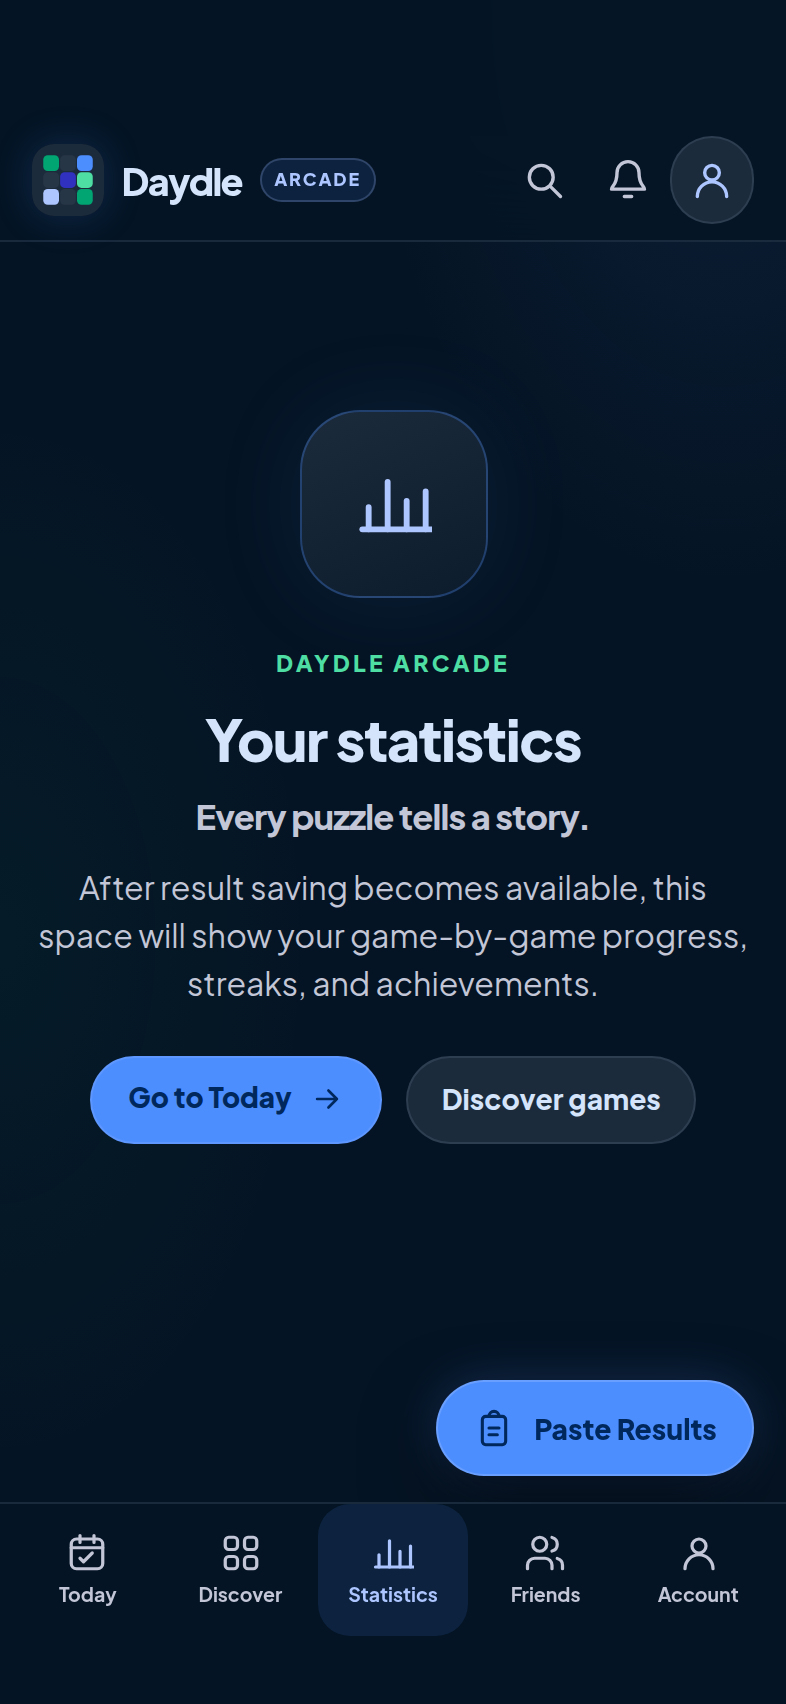
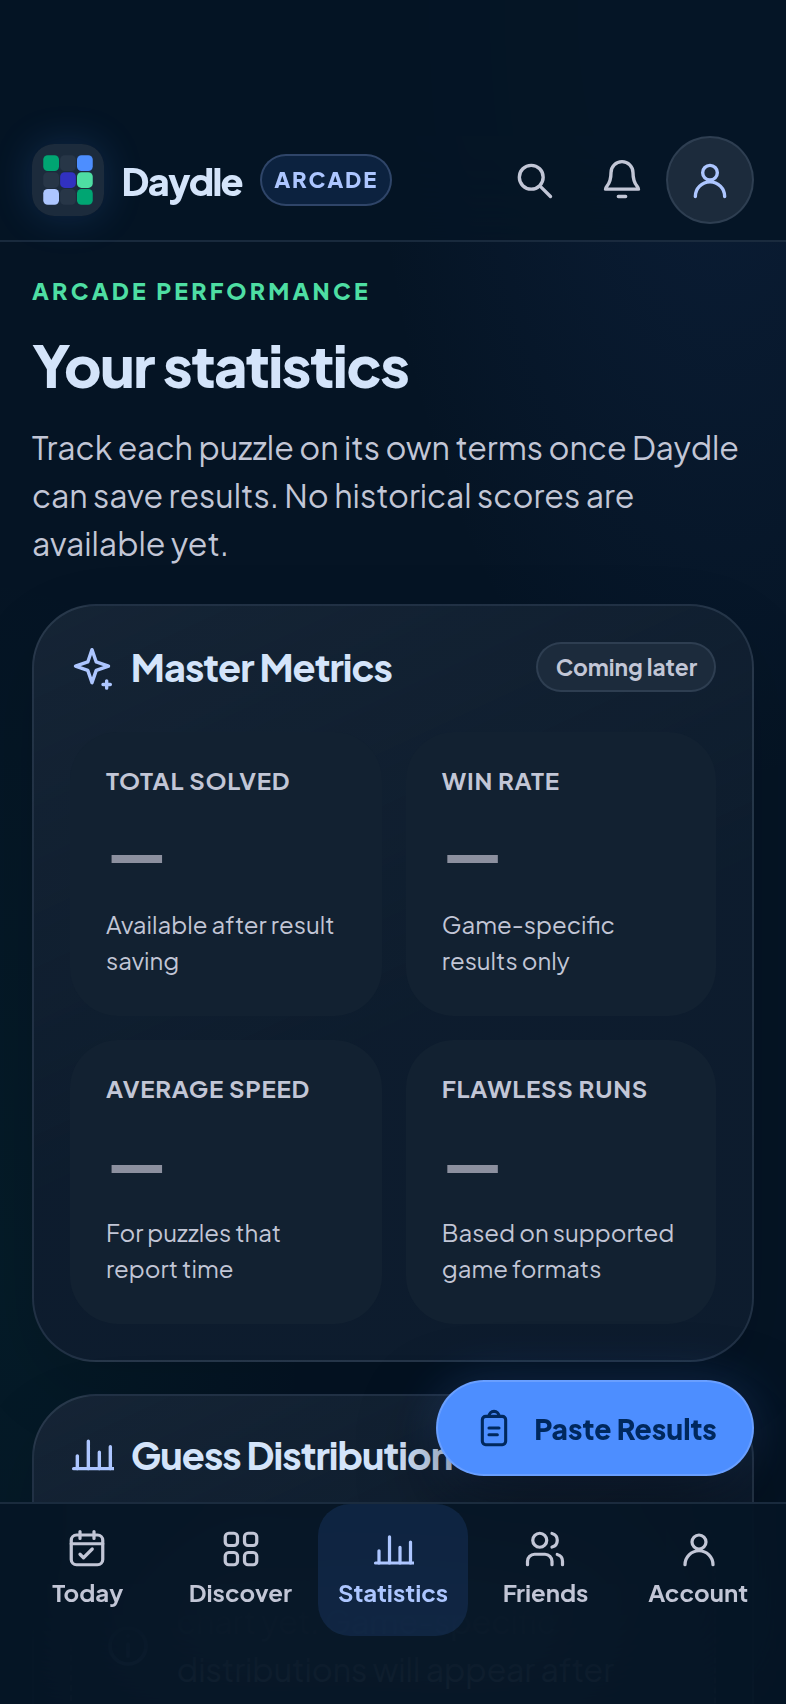
docs(ui): refresh reference-aligned screenshots and restore clean CI

diff --git a/docs/screenshots/README.md b/docs/screenshots/README.md
@@ -1,10 +1,19 @@
-# Obsidian Arcade browser screenshots
+# Obsidian Arcade — screenshot evidence
 
-Captured from the real built React application on the Phase 6.5 feature branch, using GitHub Actions CI run [#43942504930](https://github.com/A13Xg/Daydle/actions/runs/43942504930) and headless Chromium CDP with a 393 × 852 CSS-pixel mobile viewport (device scale factor 2; 786 × 1704 PNG output). The screenshots are neither generated mockups nor a deployed production capture.
+Captured from the **compiled Daydle React/Vite application**, not from reference mockups or production, in [UI comparison CI #43948359080](https://github.com/A13Xg/Daydle/actions/runs/43948359080). Captures use Chromium's DevTools Protocol at **393 × 852 CSS pixels**, device-scale factor 2 (786 × 1704 image), with 59px top/34px bottom safe-area emulation.
 
-- **arcade-today-guest.png** — unauthenticated Today view. No user data or saved games are shown.
-- **arcade-statistics-placeholder.png** — Statistics tab future-state placeholder. Statistics are not yet implemented or calculated.
+| File | Verified state | Design reference |
+|---|---|---|
+| [arcade-today-guest.png](arcade-today-guest.png) | Signed-out Today, zero fictional game results; overview hero and real catalog/auth actions | `today/screen.png` (authenticated reference, not directly comparable for result metrics) |
+| [arcade-statistics-placeholder.png](arcade-statistics-placeholder.png) | Four honest unavailable metric cards plus unpopulated distribution panel | `statistics/screen.png` (mockup uses illustrative statistics) |
+| [arcade-auth-unconfigured.png](arcade-auth-unconfigured.png) | Blank-shell authentication hero and icon-branded Apple/Google buttons, disabled because Supabase configuration is absent from CI | `welcome_auth/screen.png` (mockup's live counts and email form are not available here) |
 
-Environment: CI build does not inject Supabase project credentials, so these demonstrate public/guest presentation, not authenticated features. The browser emulates iOS safe-area insets; this does **not** constitute real iPhone Safari or installed-PWA testing. The owner has deferred that testing for the Phase 6.5 review, to be performed before the relevant release.
+## Comparison and corrections
 
-Screenshots are documentation-only assets and are not part of the PWA precache or production bundle.
+- Preserved the approved Obsidian Arcade dark palette, Plus Jakarta Sans, rounded tiles/card hierarchy, five-tab frosted shell, and explicit stack/blank navigation.
+- Rebuilt the authentication hero to match the reference's emblem + wordmark + primary headline + provider button order/brand marks; no sample live-count or unsupported email action was fabricated.
+- Rebuilt the Statistics future state using the mockup's **Master Metrics** 2×2 card hierarchy and **Guess Distribution** section while showing dashes and explicit unavailable descriptions instead of fabricated percentages, streaks, or win data.
+- Refined guest Today to echo the reference's status strip, feature panel, two-column secondary cards and prominent primary CTA. Authenticated Today retains its actual selected-game rotation; it is **not** visually covered by these credential-free screenshots.
+- Corrected mobile nav/brand labels to be at least 11px and restored minimum 44×44px header icon targets; browser checks assert geometry and typography at 320/393/1024px.
+
+**Limitations:** CI has no Supabase project configuration, so these screenshots cannot demonstrate signed-in games, provider callback, or private user data. Physical iPhone Safari/home-screen PWA acceptance is **owner-deferred and NOT VERIFIED**; real-device testing remains required before release. Images are source-only documentation, excluded from the production/PWA bundle and precache.

diff --git a/completedPhases/Phase6.5Exec.md b/completedPhases/Phase6.5Exec.md
@@ -101,3 +101,13 @@ Physical **iPhone Safari and home-screen PWA** acceptance has not been rerun on 
 
 - PR: [#13](https://github.com/A13Xg/Daydle/pull/13), requested human review; branch base remains merged Phase 6 main commit 99401d5.
 - All required source/browser CI gates PASS; real iPhone device testing remains NOT VERIFIED and deferred until before release. No production changes or new phase begun.
+
+
+## Reference-screen visual parity revision — November 16, 2026
+
+- Compared actual guest Today, Statistics and unconfigured Auth screenshots with their owner-approved `today`, `statistics` and `welcome_auth` reference PNGs and DESIGN.md rules. The previous screenshots had a generic sign-in hierarchy, a feature-placeholder void where metric cards were expected, undersized navigation/badge labels (9–10px), and header hit areas of 40–42px on narrow screens.
+- Replaced the auth layout with the reference's emblem + Daydle Arcade wordmark + ritual headline + branded Apple/Google icons; kept the real OAuth provider code and explicit unconfigured state. **Did not invent** the mockup's sample live counts, social badges, or unsupported email UI.
+- Reworked guest Today with a status strip, arcade hero and two secondary cards, retaining accurate signed-out privacy statements and real links; converted Statistics to a four-card Master Metrics placeholder and empty Guess Distribution grouping without fabricated values.
+- Increased mobile tab font to 12px and brand badge fonts to at least 11px; fixed mobile header icon targets to 44×44px, updated actual CDP geometry assertions, and added tests for the metric cards and provider branding. Added CSS `prefers-contrast: more` fallback.
+- [Canonical formatting and visual-capture CI #43948359080](https://github.com/A13Xg/Daydle/actions/runs/43948359080) passed **196/196 tests across 25 suites**, 16 Chromium viewport/route checks and both PostgreSQL security jobs. Fresh real compiled-app images and provenance are in [screenshots README](../docs/screenshots/README.md). Temporary screenshot and formatting instrumentation was subsequently removed; a clean-source CI run is required to close this revision.
+- Scope remains Phase 6.5 visual implementation. Authenticated visuals and real physical-iPhone acceptance remain **NOT VERIFIED** (owner-deferred), not success claims. PR #13 is unmerged, and no hosted deploy or migration occurred.

diff --git a/docs/ui-architecture.md b/docs/ui-architecture.md
@@ -46,5 +46,13 @@ Manual review on a real iPhone is still needed after a separately authorized pre
 
 - [Today, guest-state mobile screenshot](screenshots/arcade-today-guest.png) — genuine CI-built app; no signed-in account or saved data.
 - [Statistics placeholder screenshot](screenshots/arcade-statistics-placeholder.png) — genuine CI-built app; does not imply statistics are operational.
-- Screenshots: Chromium 393×852, scale 2, safe-area emulation, captured by [CI #43942504930](https://github.com/A13Xg/Daydle/actions/runs/43942504930). They are documentation assets, not reference mockups.
+- Screenshots: Chromium 393×852, scale 2, safe-area emulation, recaptured after design audit in [CI #43948359080](https://github.com/A13Xg/Daydle/actions/runs/43948359080). They are documentation assets, not reference mockups.
 - Owner explicitly deferred physical iPhone Safari/installed-PWA tests for Phase 6.5 PR review. They remain NOT VERIFIED and are required before a subsequent release; existing Phase 5 device evidence cannot be reused as proof of redesigned UI behavior.
+
+
+## Approved screenshot parity audit
+
+- Current [auth reference comparison](screenshots/arcade-auth-unconfigured.png) matches the emblem/wordmark, action hierarchy and provider marks. The environment's disabled OAuth buttons indicate missing CI credentials, not a production OAuth regression.
+- [Guest Today](screenshots/arcade-today-guest.png) now uses a dashboard status strip, hero panel and secondary card grid instead of the previous oversized generic welcome. It does not imitate authenticated scores.
+- [Statistics](screenshots/arcade-statistics-placeholder.png) carries the approved 2×2 metric-card and distribution-section structure; values remain explicitly unavailable until the relevant feature phases.
+- All mobile nav labels use at least 11px; top-bar icon targets are >=44×44px. The Chromium viewport script now asserts these computed dimensions, and reduced-motion/increased-contrast CSS remains supported.

diff --git a/referenceFiles/Daydle UI-UX Reference/DESIGN.md b/referenceFiles/Daydle UI-UX Reference/DESIGN.md
@@ -172,7 +172,7 @@ Daydle ships as a **web/PWA** (React, TypeScript, Vite, Cloudflare). For archite
 
 Rules that follow from supporting both:
 
-1. **Ship nothing from a runtime CDN.** Mockups load Tailwind (Play CDN), Plus Jakarta Sans and Material Symbols from the network for convenience only. The real app compiles Tailwind at build time and bundles the font files and an icon subset, so the iOS build works offline, loads instantly and passes App Store review. The Tailwind Play CDN must never ship.
+1. **Ship nothing from a runtime CDN.** Mockups load Tailwind (Play CDN), Plus Jakarta Sans and Material Symbols from the network for convenience only. The current React app uses compiled semantic CSS design tokens and bundles Plus Jakarta Sans and inline SVG icons. This preserves web/PWA offline reliability and future iOS packaging flexibility; it does not establish App Store compliance. The Tailwind Play CDN must never ship.
 2. **Relative, bundled assets only.** No hotlinked images. Mockups use `assets/` (emblem, placeholder avatars).
 3. **Feature-detect, never user-agent sniff.** Clipboard, share, vibration and notifications behave differently in Safari, a home-screen PWA and a `WKWebView`. Every such feature needs a graceful fallback (see Interaction).
 4. **No hover-only affordances.** Hover styles are enhancements; Tailwind is configured with `future.hoverOnlyWhenSupported` so touch devices never get sticky hover.

diff --git a/referenceFiles/readme.md b/referenceFiles/readme.md
@@ -36,7 +36,7 @@ The tab screens link to each other, so you can click through them in a browser.
 
 The product currently ships as a web/PWA. Future iOS packaging may be explored separately, but is **not scoped or authorized now**. Preserve compatibility with a possible WKWebView wrapper when choosing web technologies. The mockups are written with that portability goal: viewport and safe-area handling, 16px inputs, 44pt hit areas, touch-safe reordering, accessible controls and no hotlinked assets. The rules, and the App Store requirements they come from, are in `DESIGN.md`.
 
-Two mockup-only shortcuts must **not** ship: the Tailwind Play CDN and the Google Fonts and Material Symbols links. The real app compiles Tailwind and bundles fonts and icons.
+Two mockup-only shortcuts must **not** ship: the Tailwind Play CDN and the Google Fonts and Material Symbols links. The React app instead uses equivalent bundled semantic CSS design tokens, local Plus Jakarta Sans and inline SVG icons; no runtime CDN is required.
 
 ## Where the mockups differ from the product baseline
 
